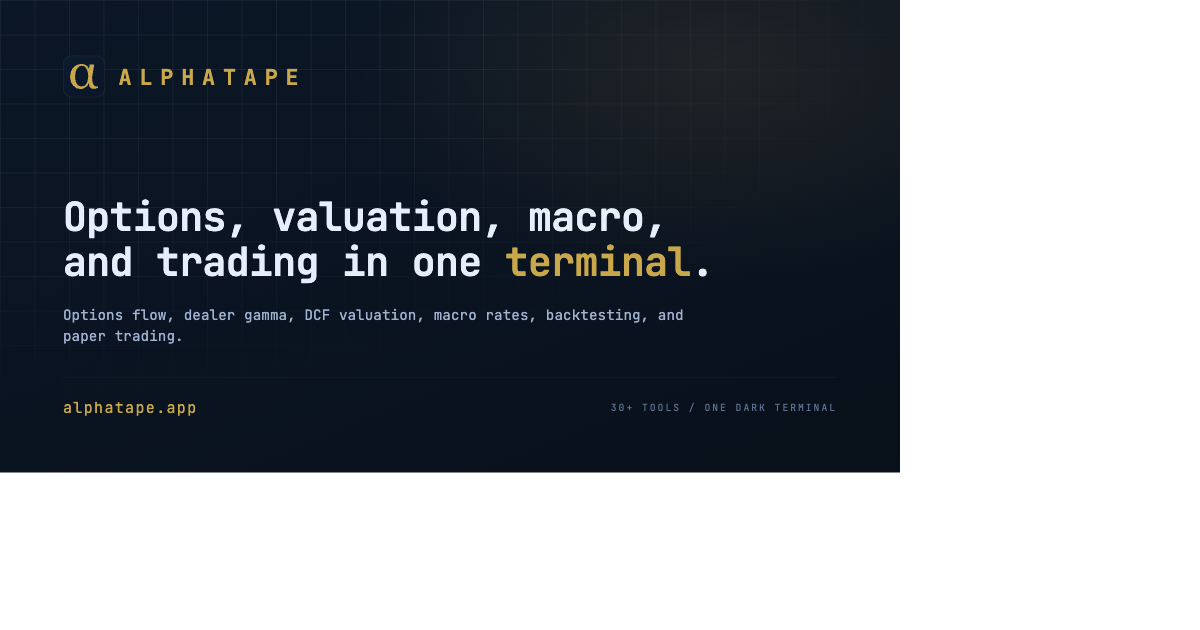
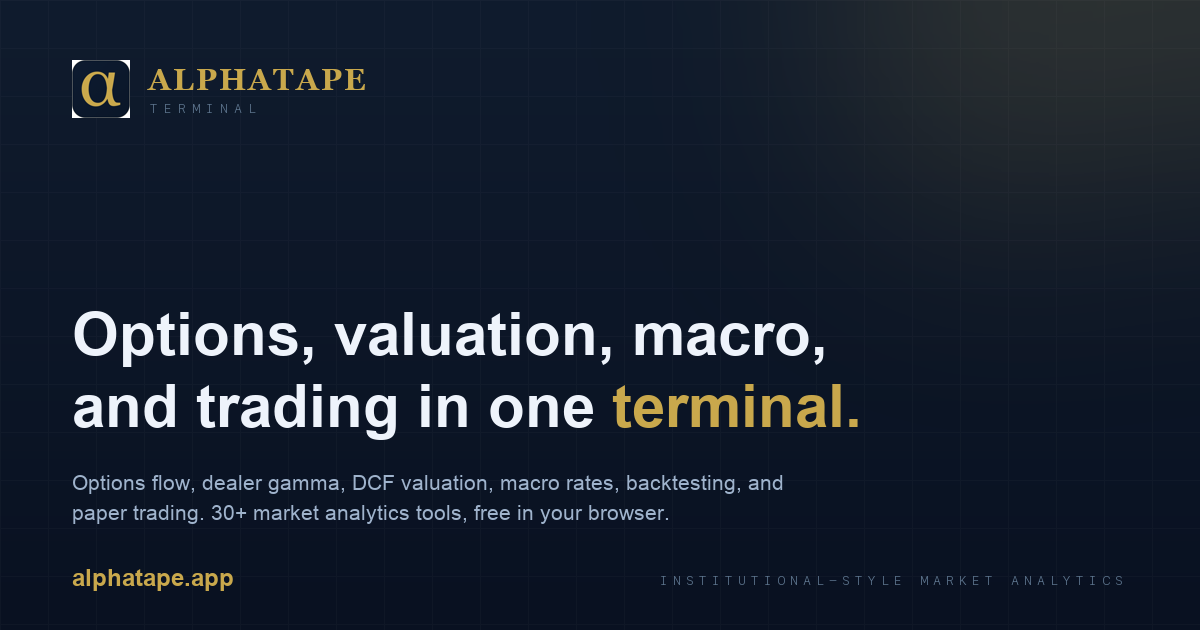
fix(og): full-bleed social card, drop white padding
The og:image was a small screenshot pasted top-left on a 1200x630 white
canvas, so Discord/Twitter padded it with white bars. Replace it with a
proper full-bleed dark brand card (logo, tagline, url). Bump the
og:image / twitter:image URLs to ?v=2 so platforms re-fetch instead of
serving the cached old image.

diff --git a/frontend/index.html b/frontend/index.html
@@ -14,14 +14,14 @@
     <meta property="og:title" content="Alphatape | Institutional-style market analytics terminal" />
     <meta property="og:description" content="Options flow, dealer gamma, DCF valuation, macro rates, backtesting, and paper trading. Over 30 market analytics tools in one dark terminal." />
     <meta property="og:url" content="https://alphatape.app/" />
-    <meta property="og:image" content="https://alphatape.app/og-card.png" />
+    <meta property="og:image" content="https://alphatape.app/og-card.png?v=2" />
     <meta property="og:image:width" content="1200" />
     <meta property="og:image:height" content="630" />
     <meta property="og:image:alt" content="Alphatape: options, valuation, macro, and trading in one terminal." />
     <meta name="twitter:card" content="summary_large_image" />
     <meta name="twitter:title" content="Alphatape | Institutional-style market analytics terminal" />
     <meta name="twitter:description" content="Options flow, dealer gamma, DCF valuation, macro rates, backtesting, and paper trading. Over 30 market analytics tools in one dark terminal." />
-    <meta name="twitter:image" content="https://alphatape.app/og-card.png" />
+    <meta name="twitter:image" content="https://alphatape.app/og-card.png?v=2" />
     <script type="application/ld+json">
     {
       "@context": "https://schema.org",
